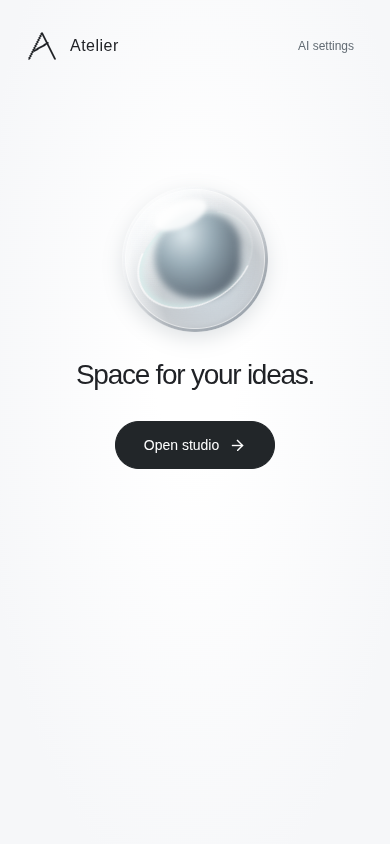
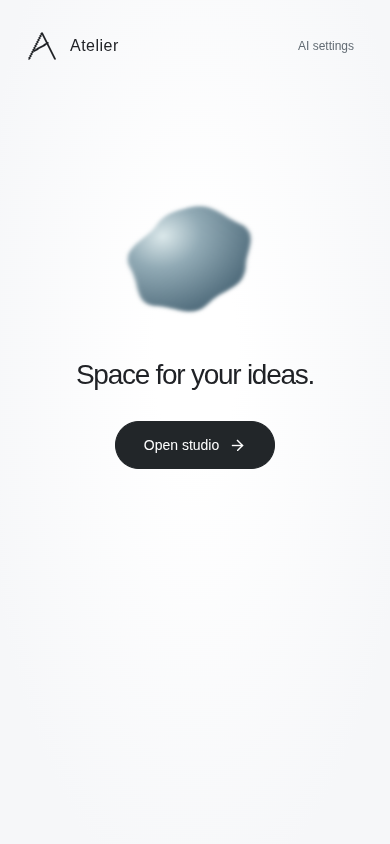
Replace nested glass orb with a soft morphing companion

Changed region(s): [[0.3077, 0.2156, 0.7077, 0.4005]]

diff --git a/src/conversation/orb.css b/src/conversation/orb.css
@@ -4,81 +4,53 @@
   position: relative;
   width: 58px;
   height: 58px;
-  border-radius: 50%;
   isolation: isolate;
-  background:
-    radial-gradient(
-      ellipse at 30% 22%,
-      #ffffffef 0%,
-      #f8fafb55 24%,
-      transparent 43%
-    ),
-    radial-gradient(ellipse at 65% 75%, #abb9c599, #53616e55 40%, #e4e9ed55 70%);
-  box-shadow:
-    inset 1px 1px 3px #fff,
-    inset -2px -3px 6px #35424f66,
-    0 7px 20px #26364924;
-  transform: scale(calc(1 + var(--orb-energy) * 0.12));
+  /* The wrapper is only a hit area: no enclosing sphere, rim or glass shell. */
+  transform: scale(calc(1 + var(--orb-energy) * 0.2));
   transition: transform 80ms linear;
 }
 .orb-large {
   width: 164px;
   height: 164px;
 }
-.audio-orb > span {
-  position: absolute;
-  border-radius: 50%;
-  pointer-events: none;
-}
 .orb-core {
-  inset: 18%;
-  background: radial-gradient(
-    ellipse at 35% 25%,
-    #dbe8ed,
-    #8ba2ae 35%,
-    #475663 75%
-  );
-  box-shadow: 0 0 14px #e1eff0bb;
-  transform: scale(calc(0.8 + var(--orb-energy) * 0.35));
-  opacity: 0.8;
-  filter: blur(4px);
+  position: absolute;
+  inset: 0;
+  width: 100%;
+  height: 100%;
+  overflow: visible;
+  pointer-events: none;
+  filter: blur(1px);
+  animation: orb-flow 8s ease-in-out infinite;
 }
-.orb-caustic {
-  inset: 8%;
-  border: 2px solid #ffffffb0;
-  border-left-color: transparent;
-  border-top-color: #ffffff22;
-  transform: rotate(-30deg) scaleX(0.8);
-  box-shadow: inset 0 -4px 7px #d5f0edb0;
-}
-.orb-rim {
-  inset: 2%;
-  border: 1px solid #ffffffa0;
-  box-shadow: inset 0 1px 7px #fff9;
-}
-.orb-highlight {
-  left: 20%;
-  top: 10%;
-  width: 38%;
-  height: 17%;
-  background: #ffffffe8;
+.orb-large .orb-core {
   filter: blur(2px);
-  transform: rotate(-30deg);
 }
-.audio-orb[data-state='thinking'] .orb-caustic {
-  animation: orb-consider 3s linear infinite;
+.audio-orb[data-state='thinking'] .orb-core {
+  animation-duration: 4s;
 }
 .audio-orb[data-state='speaking'] .orb-core {
-  background: radial-gradient(
-    ellipse at 35% 25%,
-    #f3eee2,
-    #a5b9bb 40%,
-    #586a79 80%
-  );
+  filter: blur(1px) brightness(1.08);
 }
-@keyframes orb-consider {
-  to {
-    transform: rotate(330deg) scaleX(0.8);
+/* A single continuous silhouette folds and relaxes. Idle motion is unrelated
+   to microphone activity; measured speech adds energy through the wrapper. */
+@keyframes orb-flow {
+  0%,
+  100% {
+    transform: translate(-3%, 2%) rotate(-12deg) scale(1.04, 0.88)
+      skew(-5deg, 3deg);
+  }
+  25% {
+    transform: translate(3%, -4%) rotate(10deg) scale(0.91, 1.08)
+      skew(6deg, -4deg);
+  }
+  50% {
+    transform: translate(-2%, 4%) rotate(22deg) scale(1.1, 0.9)
+      skew(-8deg, 5deg);
+  }
+  75% {
+    transform: translate(4%, -2%) rotate(-5deg) scale(0.94, 1.06)
+      skew(5deg, -6deg);
   }
 }
 .orb-dock {
@@ -185,45 +157,6 @@
   }
 }
 
-/* Ambient motion is separate from measured audio: an idle orb never implies
-   the microphone is on. CSS keeps the resting companion off the JS frame loop. */
-.audio-orb .orb-caustic {
-  animation: orb-drift 11s linear infinite;
-}
-.audio-orb .orb-core {
-  animation: orb-breathe 6s ease-in-out infinite;
-}
-.audio-orb .orb-highlight {
-  animation: orb-light 8s ease-in-out infinite alternate;
-}
-@keyframes orb-drift {
-  0% {
-    transform: rotate(-30deg) scaleX(0.8);
-  }
-  50% {
-    transform: rotate(150deg) scaleX(0.65);
-  }
-  100% {
-    transform: rotate(330deg) scaleX(0.8);
-  }
-}
-@keyframes orb-breathe {
-  0%,
-  100% {
-    transform: translate(-3%, 2%) scale(calc(0.78 + var(--orb-energy) * 0.35));
-    border-radius: 48% 52% 58% 42%;
-  }
-  50% {
-    transform: translate(4%, -4%) scale(calc(0.94 + var(--orb-energy) * 0.35));
-    border-radius: 58% 42% 47% 53%;
-  }
-}
-@keyframes orb-light {
-  to {
-    transform: translate(15%, 22%) rotate(-5deg);
-    opacity: 0.65;
-  }
-}
 .orb-dock,
 .theme-day .orb-dock,
 .theme-night .orb-dock {

diff --git a/src/conversation/AudioOrb.tsx b/src/conversation/AudioOrb.tsx
@@ -1,7 +1,13 @@
-import { useEffect, useRef, type RefObject } from 'react';
+import { useEffect, useId, useRef, type RefObject } from 'react';
 export type AudioLevels = { input: number; output: number };
-/** Glass is a lightweight 2D composition. Only measured audio drives energy;
+/** A soft, morphing form without an enclosing shell. Measured audio drives energy;
  * the separate thinking motion communicates a request, not invented speech. */
+const contours = [
+  'M50 9 C67 5 72 20 84 27 C98 36 88 49 86 59 C83 77 69 73 59 84 C48 96 38 83 25 80 C9 78 14 63 9 49 C3 33 21 30 28 20 C34 10 40 11 50 9 Z',
+  'M50 13 C66 19 80 8 86 24 C91 37 77 43 84 58 C92 76 73 83 59 79 C44 74 43 93 27 83 C13 75 22 63 13 50 C2 34 14 20 29 24 C40 28 38 8 50 13 Z',
+  'M50 7 C66 4 65 23 81 25 C99 27 86 45 89 58 C92 75 77 72 65 85 C51 99 42 78 27 80 C8 83 17 65 10 51 C2 35 22 34 25 23 C28 8 37 10 50 7 Z',
+  'M50 16 C67 21 77 9 87 25 C97 40 78 45 83 58 C91 78 75 88 62 81 C46 73 40 92 26 79 C11 66 25 61 13 47 C1 33 18 17 30 22 C40 27 38 12 50 16 Z',
+];
 export default function AudioOrb({
   levels,
   state = 'idle',
@@ -12,6 +18,18 @@ export default function AudioOrb({
   large?: boolean;
 }) {
   const element = useRef<HTMLSpanElement>(null);
+  const shape = useRef<SVGSVGElement>(null);
+  const gradient = `orb-${useId().replace(/:/g, '')}`;
+  useEffect(() => {
+    const preference = matchMedia('(prefers-reduced-motion: reduce)');
+    const sync = () => {
+      if (preference.matches) shape.current?.pauseAnimations();
+      else shape.current?.unpauseAnimations();
+    };
+    sync();
+    preference.addEventListener('change', sync);
+    return () => preference.removeEventListener('change', sync);
+  }, []);
   useEffect(() => {
     let frame = 0,
       smooth = 0;
@@ -44,10 +62,26 @@ export default function AudioOrb({
       data-state={state}
       aria-hidden="true"
     >
-      <span className="orb-core" />
-      <span className="orb-caustic" />
-      <span className="orb-rim" />
-      <span className="orb-highlight" />
+      <svg ref={shape} className="orb-core" viewBox="0 0 100 100">
+        <defs>
+          <radialGradient id={gradient} cx="30%" cy="24%" r="80%">
+            <stop offset="0" stopColor="#dce9eb" />
+            <stop offset=".38" stopColor="#91aab5" />
+            <stop offset="1" stopColor="#4d6979" />
+          </radialGradient>
+        </defs>
+        <path d={contours[0]} fill={`url(#${gradient})`}>
+          <animate
+            attributeName="d"
+            values={[...contours, contours[0]].join(';')}
+            dur={state === 'thinking' ? '4s' : '8s'}
+            repeatCount="indefinite"
+            calcMode="spline"
+            keyTimes="0;.25;.5;.75;1"
+            keySplines=".42 0 .58 1;.42 0 .58 1;.42 0 .58 1;.42 0 .58 1"
+          />
+        </path>
+      </svg>
     </span>
   );
 }

diff --git a/tests/quiet-studio.spec.ts b/tests/quiet-studio.spec.ts
@@ -25,10 +25,10 @@ test('idle orbs visibly animate without AI or microphone, on the minimal entranc
     page.getByRole('heading', { name: 'Space for your ideas.' }),
   ).toBeVisible();
   await expect(page.locator('.start-wordmark svg')).toBeVisible();
-  const caustic = page.locator('.orb-large .orb-caustic');
-  const first = await caustic.evaluate((e) => getComputedStyle(e).transform);
+  const core = page.locator('.orb-large .orb-core');
+  const first = await core.evaluate((e) => getComputedStyle(e).transform);
   await expect
-    .poll(() => caustic.evaluate((e) => getComputedStyle(e).transform))
+    .poll(() => core.evaluate((e) => getComputedStyle(e).transform))
     .not.toBe(first);
   await page.screenshot({ path: 'test-results/quiet-welcome-desktop.png' });
   await page.setViewportSize({ width: 390, height: 844 });
@@ -47,13 +47,11 @@ test('idle orbs visibly animate without AI or microphone, on the minimal entranc
     'rgba(0, 0, 0, 0)',
   );
   const before = await dock
-    .locator('.orb-caustic')
+    .locator('.orb-core')
     .evaluate((e) => getComputedStyle(e).transform);
   await expect
     .poll(() =>
-      dock
-        .locator('.orb-caustic')
-        .evaluate((e) => getComputedStyle(e).transform),
+      dock.locator('.orb-core').evaluate((e) => getComputedStyle(e).transform),
     )
     .not.toBe(before);
   await expect(dock.locator('.audio-orb')).toHaveAttribute(

diff --git a/docs/QUIET-STUDIO.md b/docs/QUIET-STUDIO.md
@@ -2,7 +2,7 @@
 
 ## Six requested changes
 
-1. **Moving orb:** slow caustic rotation, breathing shape and moving reflection run even while idle. Actual microphone/output levels add audio response only during voice use. No microphone or paid request starts automatically. The device's Reduce Motion preference is respected.
+1. **Moving companion:** one soft inner form, with no outer sphere, rim or nested glass shell. Its wavy contour continuously folds and relaxes, using native SVG morphing and gentle CSS motion. Actual microphone/output levels add audio response only during voice use. No microphone or paid request starts automatically. The device's Reduce Motion preference is respected.
 2. **Minimal welcome:** a shared geometric, rune-like A replaces the serif letter in the welcome screen, workspace and favicon. The welcome has one heading, moving orb and Open studio button; AI settings remain in the corner. New project stays above existing projects. The password popup closes when entry succeeds.
 3. **Minimized conversation:** the moving orb replaces the chat bubble in both manual and AI modes. Tap the orb to type. When voice is available a compact microphone control stays beside it; live questions and confirmations retain their existing reply/review flow. The microphone target is 44 pixels.
 4. **Moodboard removed:** no menu, viewport overlay, lazy viewer bundle or AI workspace command is offered. Existing project attachments remain in saved/imported/exported project data; they are not deleted. Conversation reference-image uploads and panorama imports remain available.
@@ -11,7 +11,7 @@
 
 ## Verification and limits
 
-All 292 unit tests and the production build pass. The static-site smoke test also passes at the /atelier/ path, including actual solid rendering, direct edits, reload persistence, FBX/panorama imports and worker-prepared AR export. Browser checks cover desktop/phone welcome, idle CSS motion over time with no paid calls, real Web Audio levels through an offline voice transport, minimized questions/replies, preserved legacy attachments through import/save/reload/export, and actual solar altitude/time progression after closing the settings panel.
+All 292 unit tests and the production build pass. The static-site smoke test also passes at the /atelier/ path, including actual solid rendering, direct edits, reload persistence, FBX/panorama imports and worker-prepared AR export. Browser checks cover desktop/phone welcome, idle motion over time with no paid calls, real Web Audio levels through an offline voice transport, minimized questions/replies, preserved legacy attachments through import/save/reload/export, and actual solar altitude/time progression after closing the settings panel.
 
 Live OpenAI interpretation and physical iPhone microphone/AR behavior were not tested. The massing update changes the actual model's instructions; a fixture is not proof that every reference will be interpreted correctly. No API key, billing or hosting configuration was changed.
 
